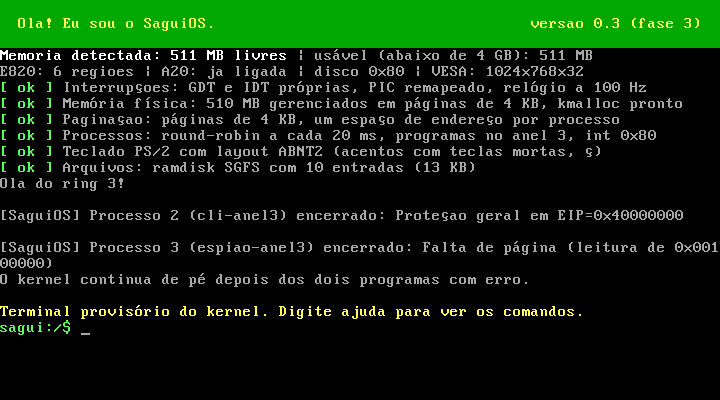
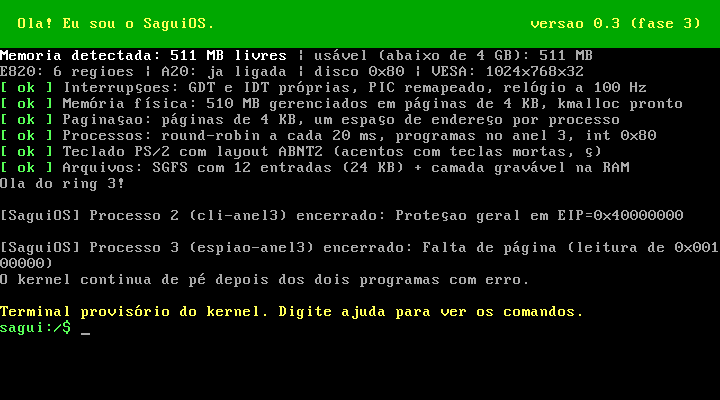
H14-fix: conta de memória do teste da H12 desconta as páginas do kmalloc

diff --git a/kernel/nucleo/autoteste.c b/kernel/nucleo/autoteste.c
@@ -353,7 +353,8 @@ static int esperar_zumbi(processo_t *p)
 
 static void teste_anel3(void)
 {
-    uint32_t livres0 = memfisica_livres();
+    estat_memoria_t m0, m1;
+    memoria_estatisticas(&m0);
     processo_t *a = rodar_no_anel3("ola-anel3", anel3_ola, anel3_ola_fim);
     confere(a != NULL, "processo criado");
     if (!a) return;
@@ -368,7 +369,10 @@ static void teste_anel3(void)
     c = esperar_zumbi(d);
     confere(c == SAIDA_ENCERRADO_PELO_KERNEL, "ler a memória do kernel encerrou o processo");
 
-    confere(memfisica_livres() == livres0, "a memória dos três processos foi toda devolvida");
+    /* Páginas que o kmalloc pegou para blocos pequenos ficam com ele (D008). */
+    memoria_estatisticas(&m1);
+    confere(m1.paginas_livres + (m1.heap_paginas - m0.heap_paginas) == m0.paginas_livres,
+            "a memória dos três processos foi toda devolvida");
     kprintf("O kernel continua de pé depois dos dois programas com erro.\n");
 }
 

diff --git a/docs/erros.md b/docs/erros.md
@@ -8,4 +8,4 @@ Cada erro encontrado: sintoma, causa e correção. Nada é escondido (PRD seçã
 | 2 | H07 | Na captura do teclado, a faixa da saudação e a linha de memória quebravam em duas linhas. | Os textos passavam de 80 colunas (a versão "0.2 (fase 2)" e a memória com 4 dígitos). | Faixa montada com larguras fixas que somam 80; linha de memória encurtada. |
 | 3 | H08 | Na captura do SGFS, a árvore saiu como `%*s` repetido. | O `formatar()` do kernel não aceitava largura vinda dos argumentos (`*`) e os argumentos ficaram desalinhados. | `formatar()` passou a aceitar `*` (com valor negativo = alinhar à esquerda). |
 | 4 | H09 | `cd ../arte` chegava ao kernel como `cd ..;arte`. | Erro do harness de testes, não do kernel: ele digitava `/` pela tecla `slash` do layout americano, que no ABNT2 é o `;`. | O harness passou a usar as posições ABNT2 (`/` = tecla `ro`, `;` = `slash`, `'` = `grave_accent`...). |
-| 5 | H14 | Regressão no teste da H12: `Ola do ring 3!` não aparecia mais (o resto do teste passava). | Com a H14, a saída 1 virou um descritor de verdade. Os programinhas da H12 são criados direto pelo autoteste, sem o carregador, e ficaram sem descritores; o `escrever(1)` devolvia "descritor inválido". | O autoteste dá a eles o terminal como 0, 1 e 2 (`arquivos_herdar(p, NULL)`). O commit da H14 foi feito antes de eu notar a falha; a correção vai no commit seguinte. |
+| 5 | H14 | Regressão no teste da H12: `Ola do ring 3!` não aparecia mais (o resto do teste passava). | Com a H14, a saída 1 virou um descritor de verdade. Os programinhas da H12 são criados direto pelo autoteste, sem o carregador, e ficaram sem descritores; o `escrever(1)` devolvia "descritor inválido". | O autoteste dá a eles o terminal como 0, 1 e 2 (`arquivos_herdar(p, NULL)`). Isso revelou uma segunda falha no mesmo teste: a conta de memória devolvida não descontava a página que o `kmalloc` pega para blocos pequenos (que fica com o heap, D008); a conta foi corrigida como no teste da H06. Os commits da H14 e da primeira correção foram feitos antes de notar a falha, porque o script encadeava o commit depois de um `grep` que dava certo mesmo com FALHOU; agora o commit só vem depois de conferir PASSOU. |
